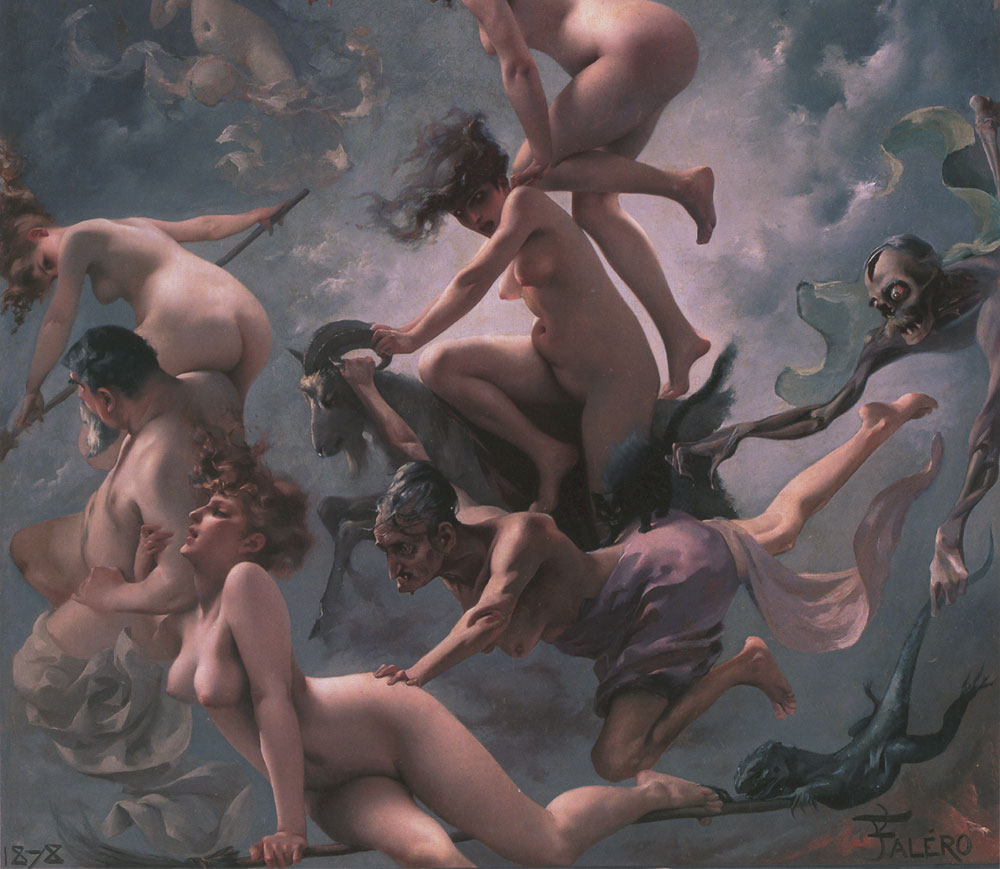
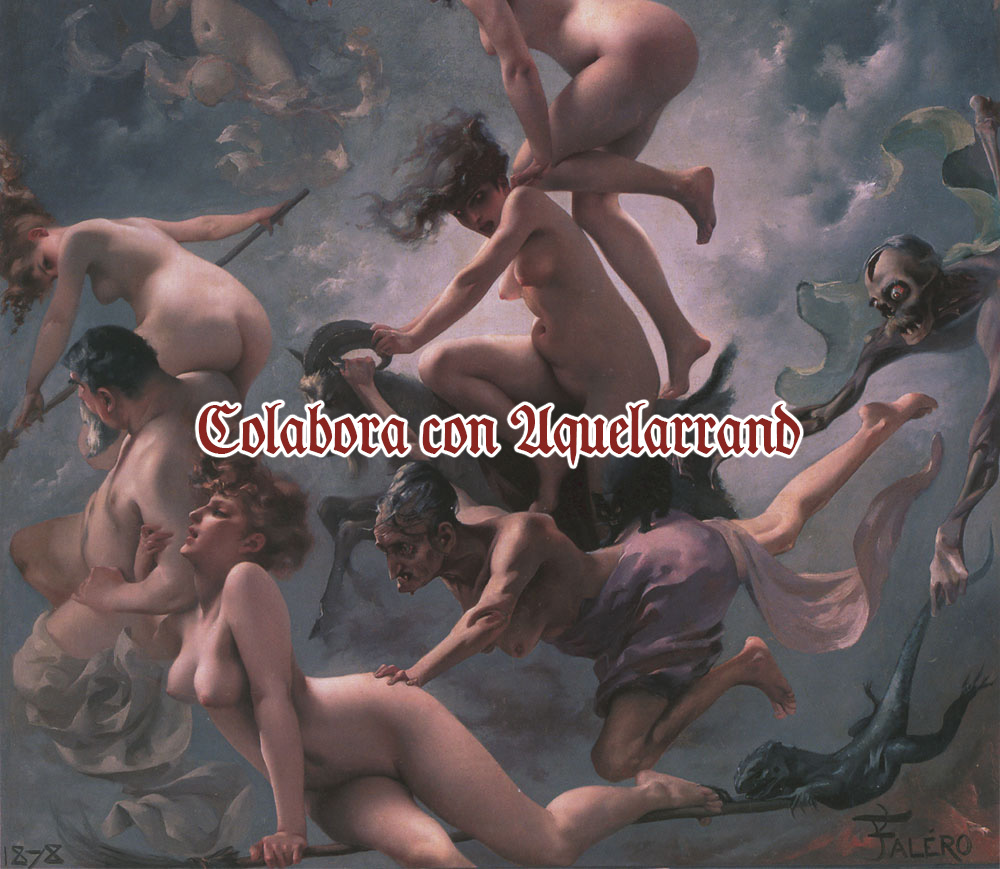
donaciones

Changed region(s): [[0.186, 0.435, 0.806, 0.5593]]

diff --git a/src/css/estilo.css b/src/css/estilo.css
@@ -222,6 +222,11 @@
         margin: 15px;
     }
     
+    .donacion {
+        margin: 40px;
+        box-shadow: 0 12px 15px 0 rgba(0, 0, 0, .24), 0 17px 50px 0 rgba(0, 0, 0, .19);
+    }
+    
     .vacio {
         height: 65px;
     }

diff --git a/src/donaciones.php b/src/donaciones.php
@@ -1,3 +1,10 @@
+<?php
+
+declare(strict_types=1);
+
+
+?>
+
 <!DOCTYPE html>
 <html lang="en">
 
@@ -7,7 +14,7 @@
     <meta name="viewport" content="width=device-width, initial-scale=1.0">
     <link rel="shortcut icon" type="image/x-icon" href="img/favicon.png">
     <link rel="stylesheet" type="text/css" href="css/estilo.css">
-    <title>Aquelarrand - Hydriam</title>
+    <title>Aquelarrand - Donatio</title>
 </head>
 
 <body>
@@ -32,34 +39,20 @@
         </div>
     </nav>
 
-
     <div class="contenedor">
         <div class="vacio"></div>
-        <h1>Lanza los dados</h1>
-        <p>Aquelarre utiliza dados de cuatro, seis, ocho y diez caras, especialmente de estos últimos.<br> La mayor parte de los valores que se utilizan en el juego se expresan en porcentajes,<br>lo que permite medir en una escala del 1 al 100 lo bueno que
-            se es en una determinada Competencia.
-        </p>
-
-        <div class="dados">
-            <div class="d4" onclick="d4Roll()"></div>
-            <div class="d6" onclick="d6Roll()"></div>
-            <div class="d8" onclick="d8Roll()"></div>
-            <div class="d10" onclick="d10Roll()"></div>
-            <div class="d100" onclick="d100Roll()"></div>
-        </div>
-        <div class="result">
-            <div id="display"></div>
+        <h1>Donaciones</h1>
+        <p>Para que la página web siga activa es necesario un pequeño aporte.<br>
+            Muchas gracias por colaborar.</p>
+        <div class="donacion">
+            <a href="https://www.paypal.com/donate/?business=PYHKBFYUJ8KZ8&no_recurring=0&item_name=Aquelarrand%3A+Generador+de+personajes&currency_code=EUR">
+                <img src="img/aqfalero.jpg" width="1000px" alt="Falero"></a>
         </div>
     </div>
-    <div class="vacio2"></div>
 
     <?php
-   include_once("footer.php");
-   ?>
-   
-    <script src="js/dados.js"></script>
-    <script src="https://ajax.googleapis.com/ajax/libs/jquery/3.1.1/jquery.min.js"></script>
-    <!-- <script src="js/estilo.js"></script> -->
+    include_once("footer.php");
+    ?>
 </body>
 
 </html>

diff --git a/src/login.php b/src/login.php
@@ -34,7 +34,7 @@ if (isset($_SESSION["usuario"])) {
                     <li><a href="caracteristicas.php">Generador</a></li>
                     <li><a href="dados.php">Tiradas</a></li>
                     <li><a href="login.php">Acceso</a></li>
-                    <li><a href="#">Contacto</a></li>
+                    <li><a href="mailto:crveldad@hotmail.com">Contacto</a></li>
                 </ul>
             </div>
             <span class="navTrigger">

diff --git a/src/mostrarPersonaje.php b/src/mostrarPersonaje.php
@@ -68,7 +68,7 @@ if (isset($_GET["id"])) {
                     <li><a href="caracteristicas.php">Generador</a></li>
                     <li><a href="dados.php">Tiradas</a></li>
                     <li><a href="login.php">Acceso</a></li>
-                    <li><a href="#">Contacto</a></li>
+                    <li><a href="mailto:crveldad@hotmail.com">Contacto</a></li>
                 </ul>
             </div>
             <span class="navTrigger">

diff --git a/src/listado.php b/src/listado.php
@@ -36,7 +36,7 @@ if (!isset($_SESSION)) {
                     <li><a href="caracteristicas.php">Generador</a></li>
                     <li><a href="dados.php">Tiradas</a></li>
                     <li><a href="login.php">Acceso</a></li>
-                    <li><a href="#">Contacto</a></li>
+                    <li><a href="mailto:crveldad@hotmail.com">Contacto</a></li>
                 </ul>
             </div>
             <span class="navTrigger">

diff --git a/src/caracteristicas.php b/src/caracteristicas.php
@@ -43,7 +43,7 @@ $p1->sesion();
                     <li><a href="caracteristicas.php">Generador</a></li>
                     <li><a href="dados.php">Tiradas</a></li>
                     <li><a href="login.php">Acceso</a></li>
-                    <li><a href="#">Contacto</a></li>
+                    <li><a href="mailto:crveldad@hotmail.com">Contacto</a></li>
                 </ul>
             </div>
             <span class="navTrigger">

diff --git a/src/ficha.php b/src/ficha.php
@@ -52,7 +52,7 @@ $p1->sesion();
                     <li><a href="caracteristicas.php">Generador</a></li>
                     <li><a href="dados.php">Tiradas</a></li>
                     <li><a href="login.php">Acceso</a></li>
-                    <li><a href="#">Contacto</a></li>
+                    <li><a href="mailto:crveldad@hotmail.com">Contacto</a></li>
                 </ul>
             </div>
             <span class="navTrigger">

diff --git a/src/paternas.php b/src/paternas.php
@@ -58,7 +58,7 @@ $total = 0;
                     <li><a href="caracteristicas.php">Generador</a></li>
                     <li><a href="dados.php">Tiradas</a></li>
                     <li><a href="login.php">Acceso</a></li>
-                    <li><a href="#">Contacto</a></li>
+                    <li><a href="mailto:crveldad@hotmail.com">Contacto</a></li>
                 </ul>
             </div>
             <span class="navTrigger">

diff --git a/src/competencias.php b/src/competencias.php
@@ -54,7 +54,7 @@ $p1->sesion();
                 <li><a href="caracteristicas.php">Generador</a></li>
                     <li><a href="dados.php">Tiradas</a></li>
                     <li><a href="login.php">Acceso</a></li>
-                    <li><a href="#">Contacto</a></li>
+                    <li><a href="mailto:crveldad@hotmail.com">Contacto</a></li>
                 </ul>
             </div>
             <span class="navTrigger">

diff --git a/src/index.php b/src/index.php
@@ -22,7 +22,7 @@
                     <li><a href="caracteristicas.php">Generador</a></li>
                     <li><a href="dados.php">Tiradas</a></li>
                     <li><a href="login.php">Acceso</a></li>
-                    <li><a href="#">Contacto</a></li>
+                    <li><a href="mailto:crveldad@hotmail.com">Contacto</a></li>
                 </ul>
             </div>
             <span class="navTrigger">

diff --git a/src/footer.php b/src/footer.php
@@ -28,7 +28,7 @@
                     <a href="#">Sobre mí</a>
                 </li>
                 <li>
-                    <a href="#">Donaciones</a>
+                    <a href="donaciones.php">Donaciones</a>
                 </li>
                 <li>
                     <a href="#">Privacidad</a>
